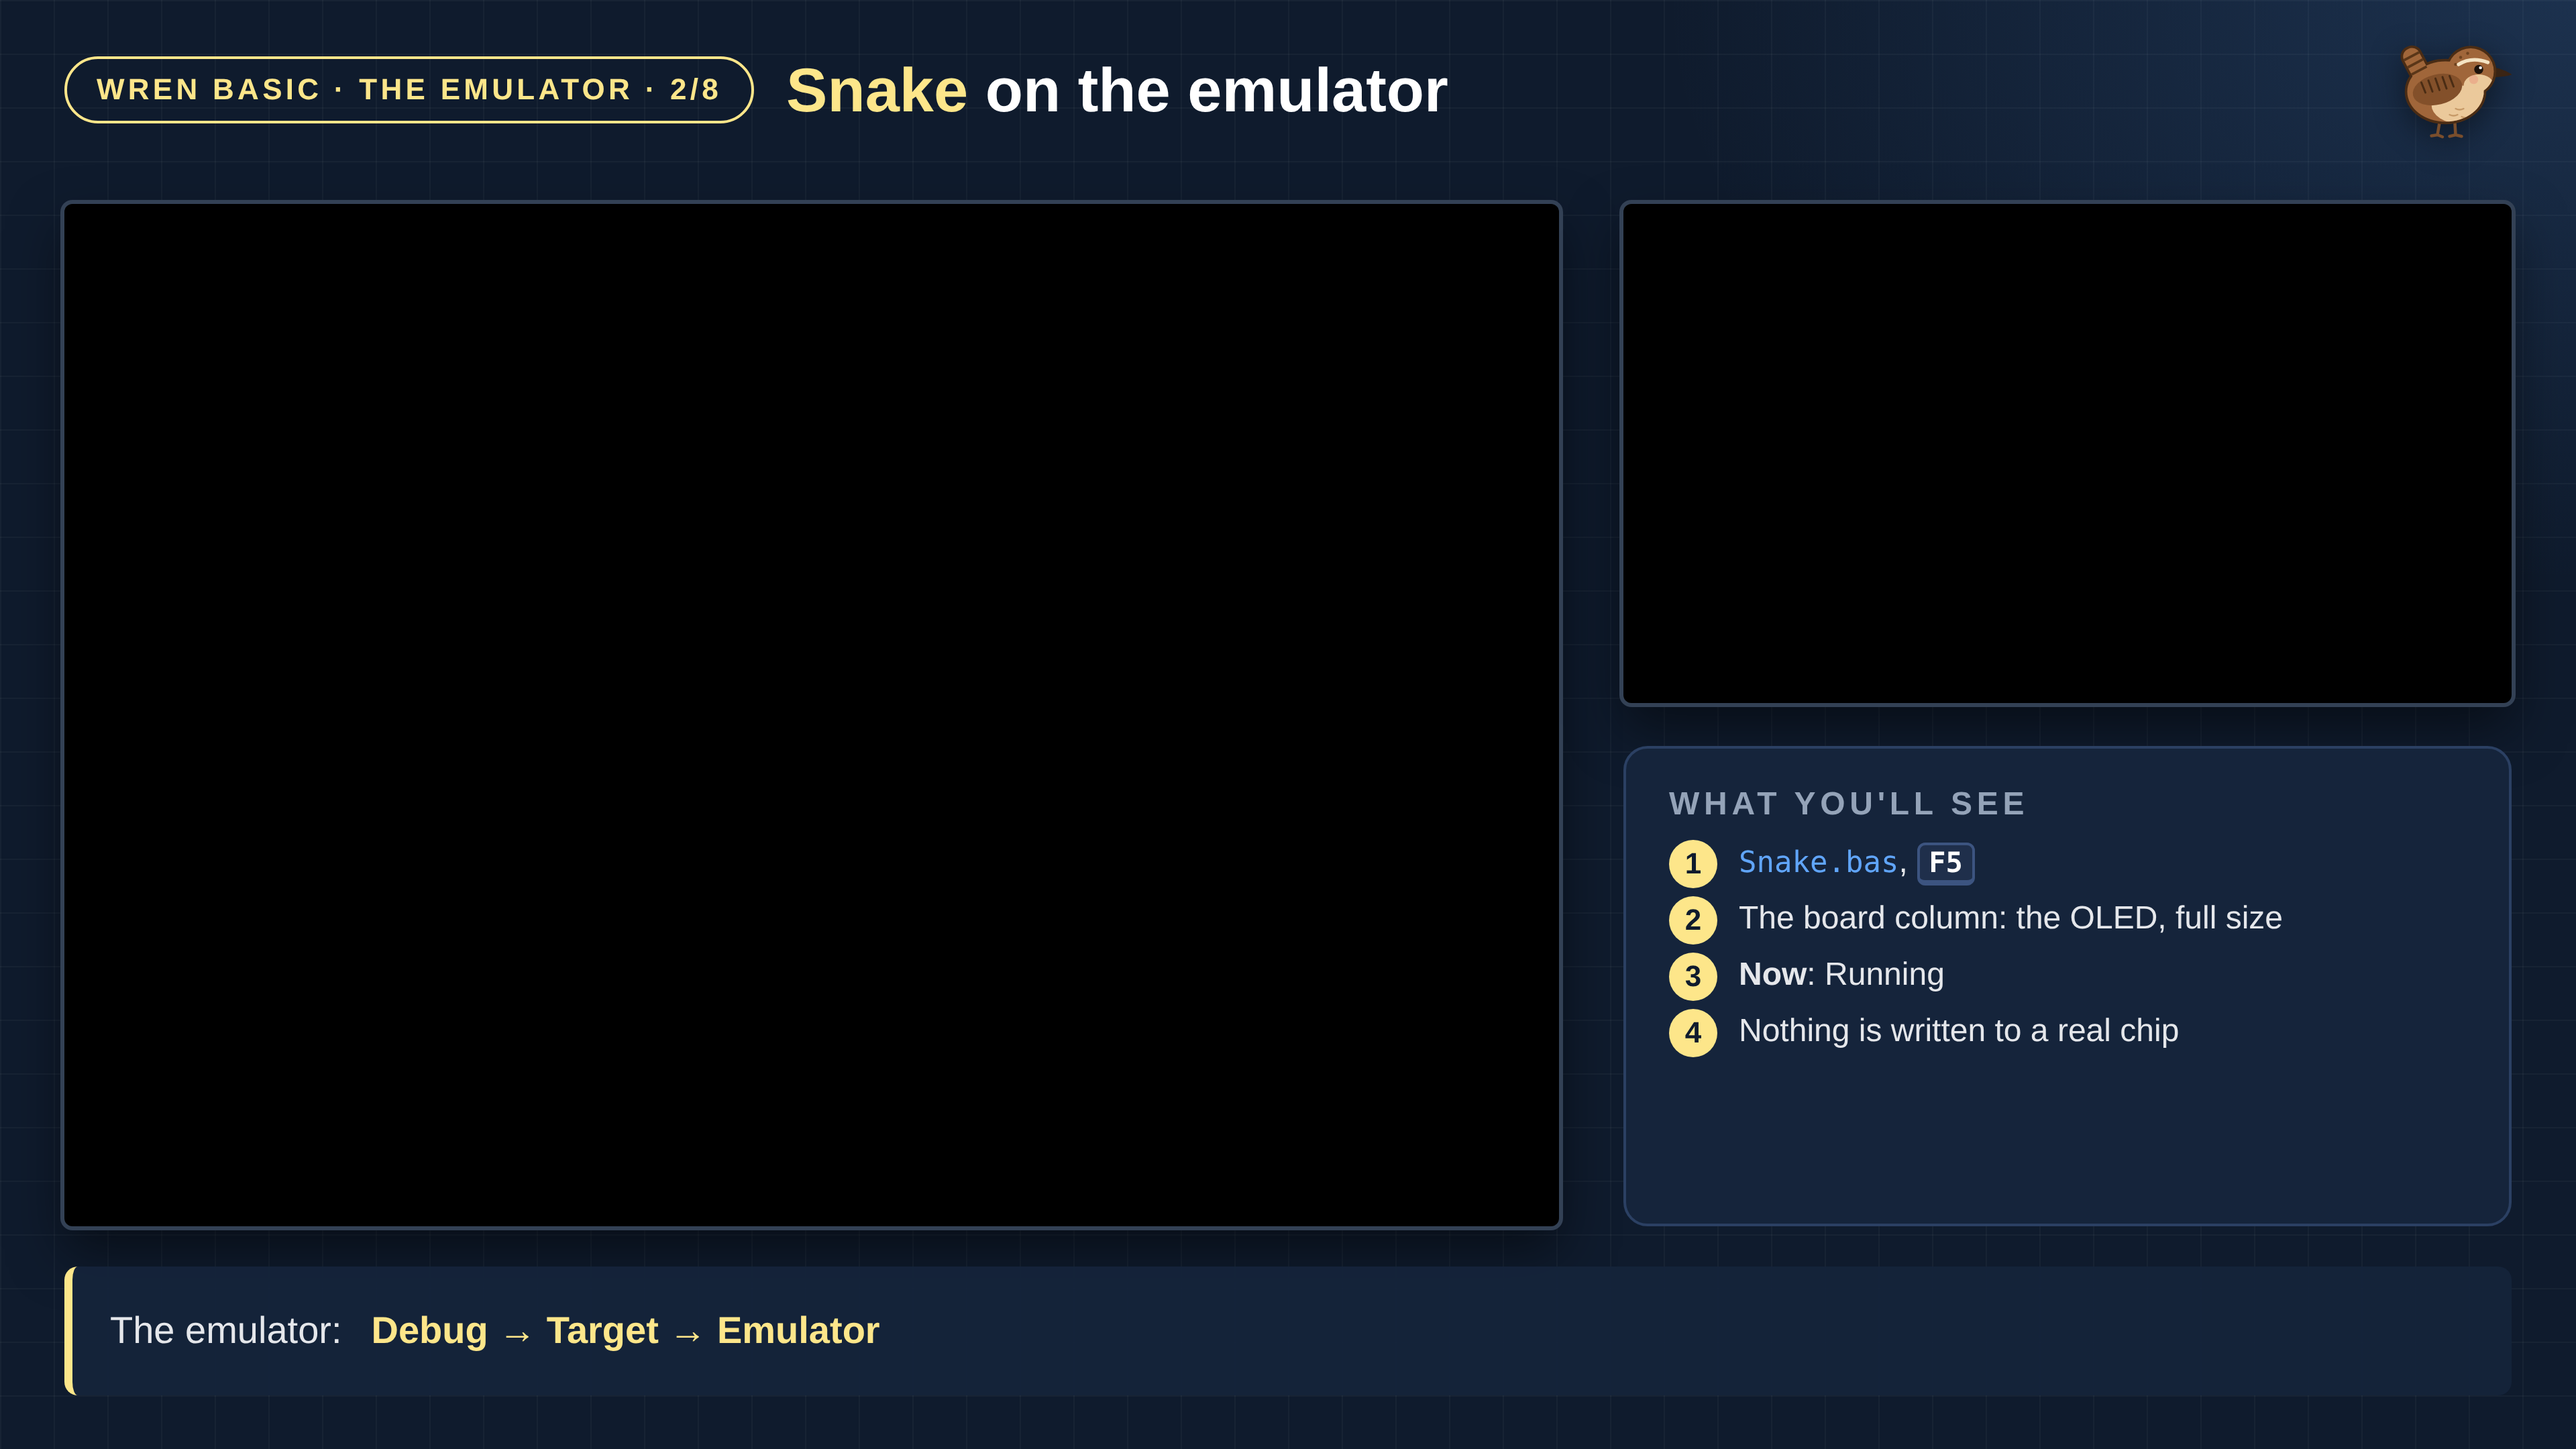
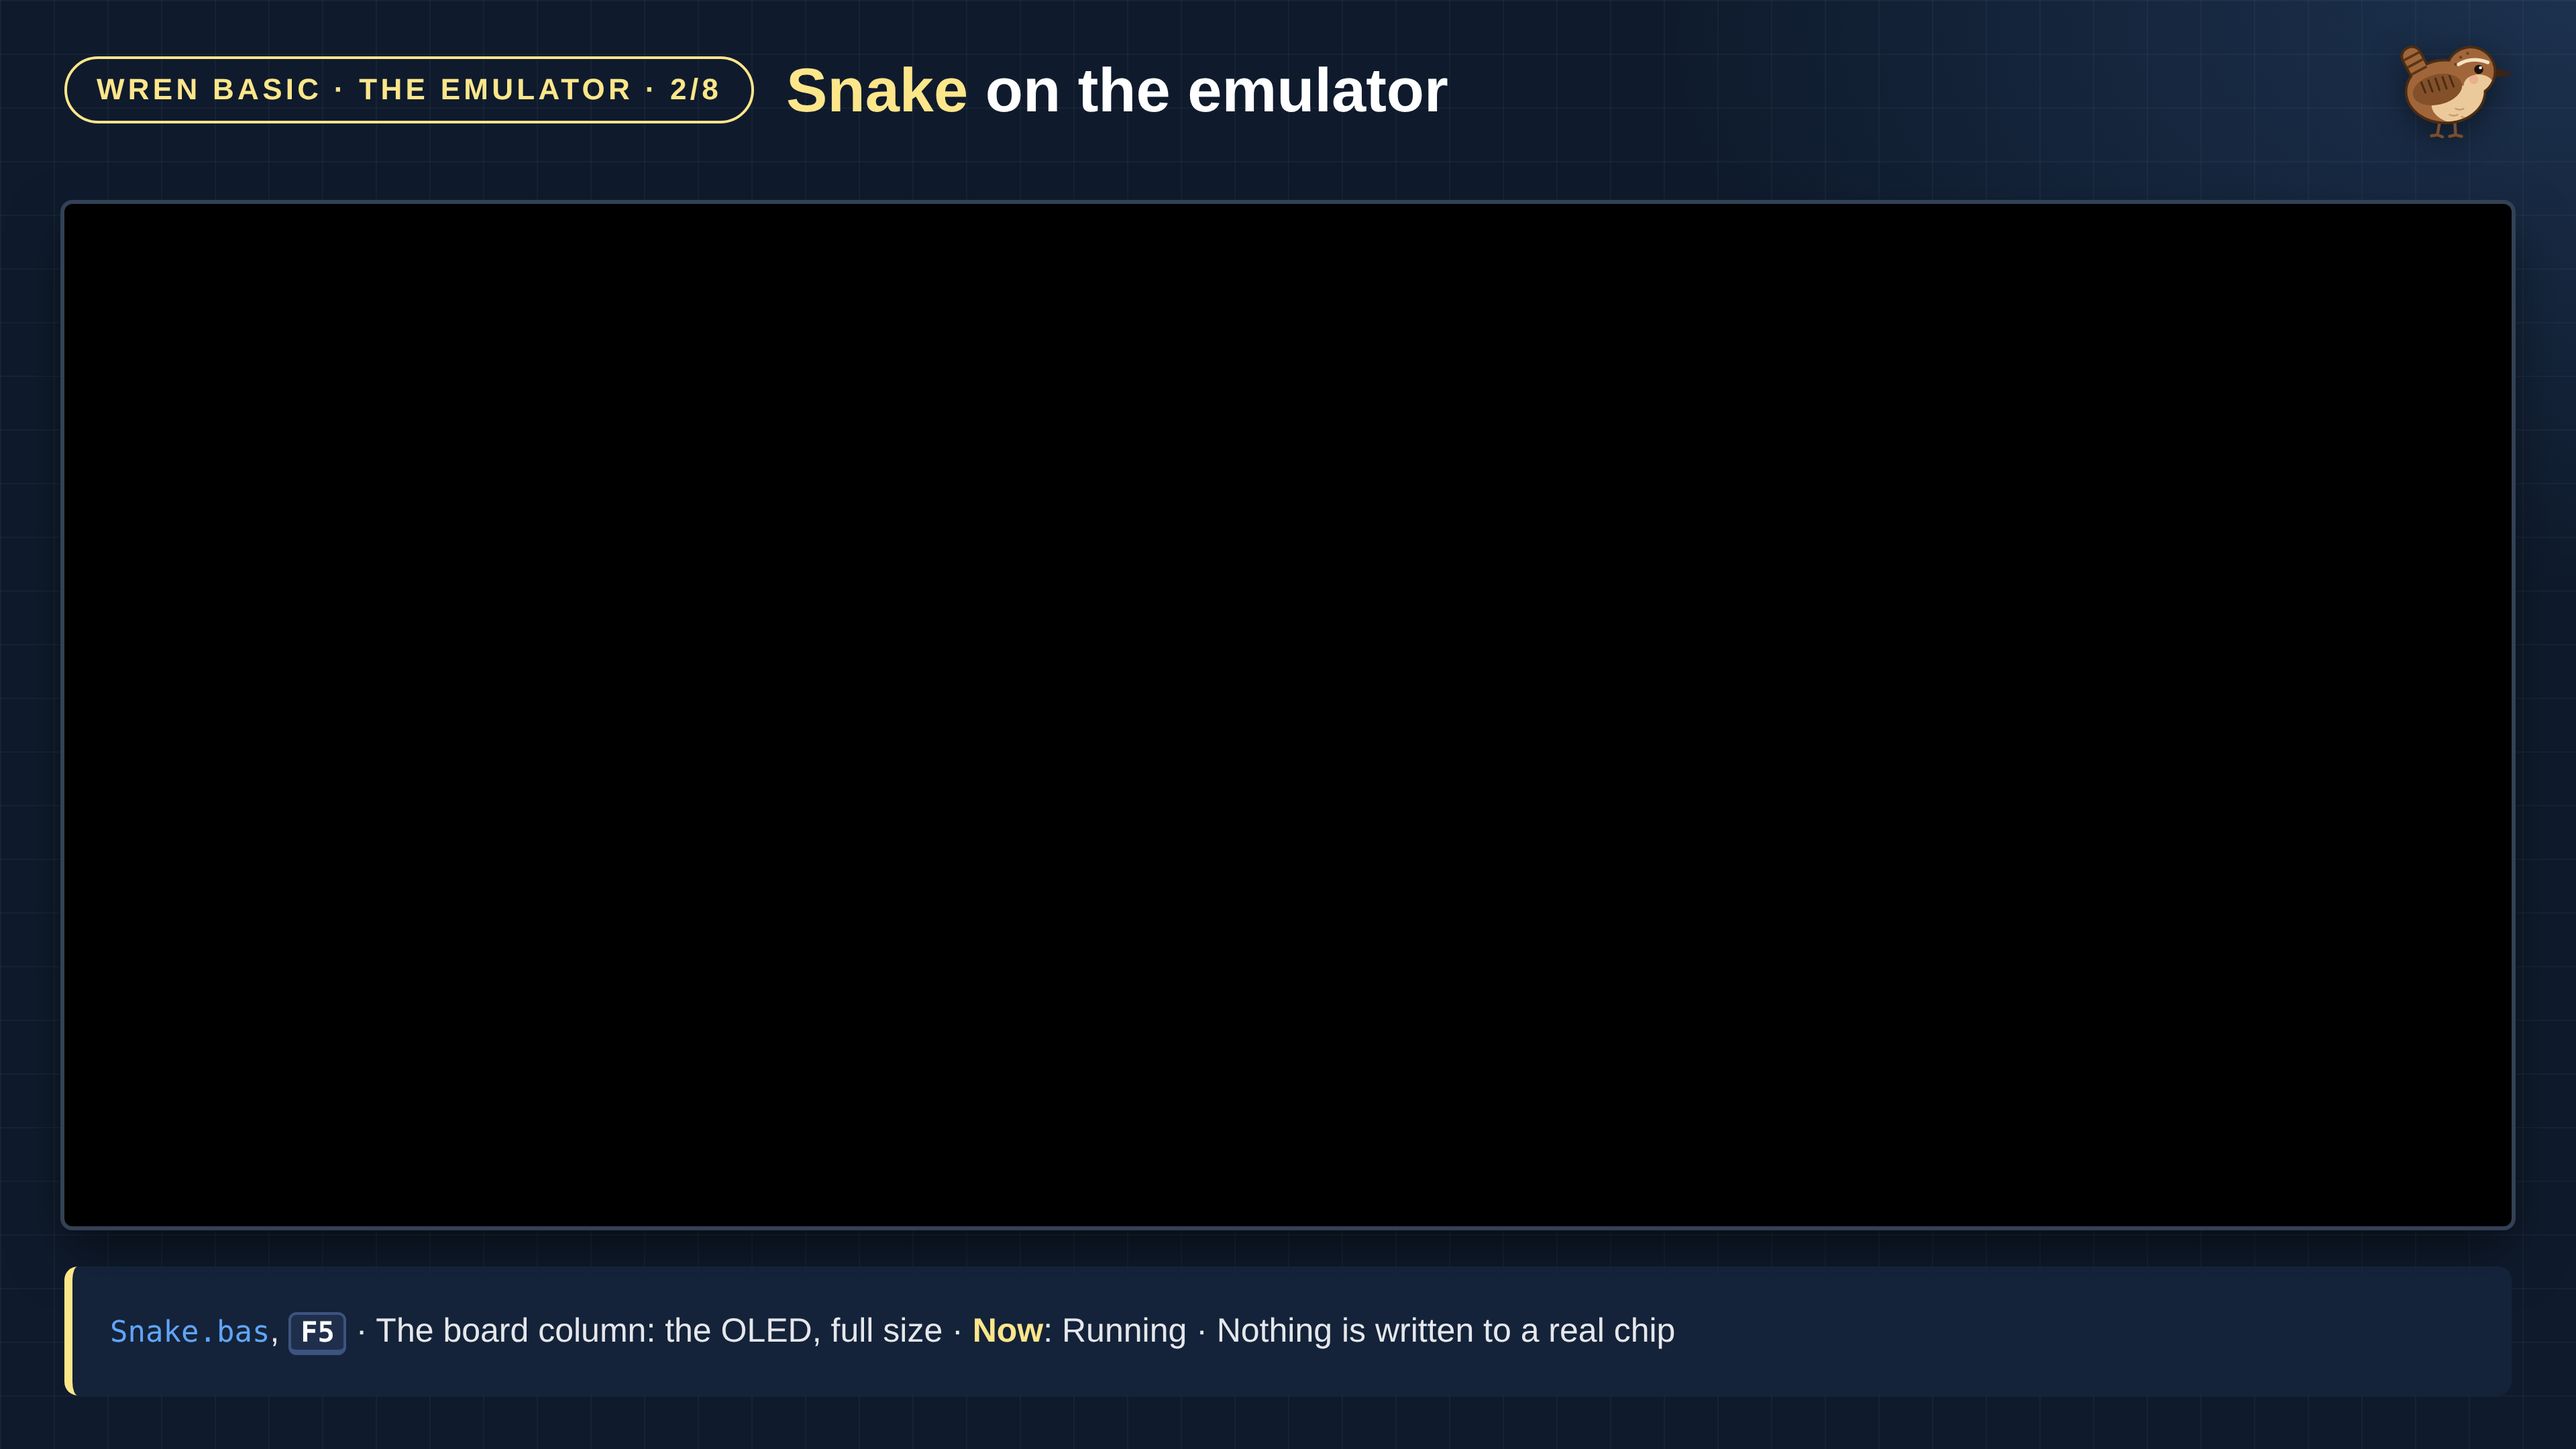
Videos: an emulator-only cut-away has one full-width console frame and no camera (video 4's three; the guide says so)
Claude-Session: https://claude.ai/code/session_01PM169opcHumrd8MpGp9RPP

Changed region(s): [[0.5938, 0.1241, 1.0, 0.8685], [0.0312, 0.8995, 0.6562, 0.9306]]

diff --git a/docs/Videos/Infographics/Wren_04/Wren_04_03b_InsideMove.html b/docs/Videos/Infographics/Wren_04/Wren_04_03b_InsideMove.html
@@ -20,8 +20,8 @@
     - The scene: docs/Videos/Wren_04_Emulator.md. "In Move, 1 call deep": the Now panel's own
       wording (src/Wren/MainWindow.axaml.cs, NowDescription). Stopped on line 64, F11 goes into
       Taken at line 114 (2 calls deep); two F10s later c = 184, cell (29, 5).
-  A backdrop for OBS: the console frame (48, 152; up to 1114 x 762) and the camera frame
-  (1210, 152; 662 x 372) are black inside; every backdrop keeps them in place.
+  A backdrop for OBS, for a scene on the emulator alone: one console frame the full width
+  (48, 152; 1824 x 762), black inside; no camera frame. What to do is in the strip.
 -->
 <html lang="en">
 <head>
@@ -129,6 +129,8 @@
   code { font-family: "DejaVu Sans Mono", Consolas, monospace; color: var(--basic); font-size: 22px; }
   .strip { position: absolute; left: 48px; right: 48px; top: 944px; height: 96px; display: flex; align-items: center; gap: 22px; padding: 0 28px; background: rgba(21, 36, 59, 0.92); border-left: 6px solid var(--gold); border-radius: 10px; font-size: 28px; }
   .strip b { color: var(--gold); }
+  .frame.wide { left: 48px; top: 152px; width: 1824px; height: 762px; }
+  .strip.steps { font-size: 25px; flex-wrap: wrap; gap: 10px 18px; line-height: 1.3; }
 </style>
 </head>
 <body>
@@ -191,12 +193,8 @@
   <circle cx="189.5" cy="102.5" r="3" fill="#FFFFFF" />
  </g>
 </svg><!--/WREN--></div>
-<div class="frame console"></div>
-<div class="frame camera"></div>
-<div class="card see"><h2>WHAT YOU'LL SEE</h2><ol>
-<li>A breakpoint on line 68: <code>IF s &lt; bestScore</code></li><li><b>Variables</b>: <code>d</code>, <code>nx</code>, <code>ny</code>, <code>s</code>, <code>best</code></li><li><kbd>F5</kbd>: the next way, the next score</li><li>Line 64, <kbd>F11</kbd>: into <code>Taken</code>; <code>c</code>, the cell</li>
-</ol></div>
-<div class="strip"><b>Now</b> says where: <b>In Move, 1 call deep</b></div>
+<div class="frame wide"></div>
+<div class="strip steps"><span>A breakpoint on line 68: <code>IF s &lt; bestScore</code> · <b>Variables</b>: <code>d</code>, <code>nx</code>, <code>ny</code>, <code>s</code>, <code>best</code> · <kbd>F5</kbd>: the next way, the next score · Line 64, <kbd>F11</kbd>: into <code>Taken</code>; <code>c</code>, the cell</span></div>
 <!--NAV--><a class="nav prev" href="Wren_04_03_Choose.html" aria-label="Previous slide"></a><a class="nav next" href="Wren_04_04_OneBit.html" aria-label="Next slide"></a><!--/NAV-->
 </body>
 </html>

diff --git a/docs/Videos/Infographics/Wren_04/Wren_04_06b_LastMove.html b/docs/Videos/Infographics/Wren_04/Wren_04_06b_LastMove.html
@@ -12,8 +12,8 @@
   Sources:
     - Snake.bas: programs/OledThing/Snake.bas; 834 bytes in 14 blocks (Wren's compiler).
     - The scene: docs/Videos/Wren_04_Emulator.md.
-  A backdrop for OBS: the console frame (48, 152; up to 1114 x 762) and the camera frame
-  (1210, 152; 662 x 372) are black inside; every backdrop keeps them in place.
+  A backdrop for OBS, for a scene on the emulator alone: one console frame the full width
+  (48, 152; 1824 x 762), black inside; no camera frame. What to do is in the strip.
 -->
 <html lang="en">
 <head>
@@ -121,6 +121,8 @@
   code { font-family: "DejaVu Sans Mono", Consolas, monospace; color: var(--basic); font-size: 22px; }
   .strip { position: absolute; left: 48px; right: 48px; top: 944px; height: 96px; display: flex; align-items: center; gap: 22px; padding: 0 28px; background: rgba(21, 36, 59, 0.92); border-left: 6px solid var(--gold); border-radius: 10px; font-size: 28px; }
   .strip b { color: var(--gold); }
+  .frame.wide { left: 48px; top: 152px; width: 1824px; height: 762px; }
+  .strip.steps { font-size: 25px; flex-wrap: wrap; gap: 10px 18px; line-height: 1.3; }
 </style>
 </head>
 <body>
@@ -183,12 +185,8 @@
   <circle cx="189.5" cy="102.5" r="3" fill="#FFFFFF" />
  </g>
 </svg><!--/WREN--></div>
-<div class="frame console"></div>
-<div class="frame camera"></div>
-<div class="card see"><h2>WHAT YOU'LL SEE</h2><ol>
-<li>A breakpoint on line 76: <code>GameOver</code></li><li><kbd>F5</kbd>, and wait for the trap</li><li>The screen: the trap it built</li><li><kbd>F11</kbd>: into <code>GameOver</code></li>
-</ol></div>
-<div class="strip">The wait is cut in the edit · <b>best = −1</b></div>
+<div class="frame wide"></div>
+<div class="strip steps"><span>A breakpoint on line 76: <code>GameOver</code> · <kbd>F5</kbd>, and wait for the trap · The screen: the trap it built · <kbd>F11</kbd>: into <code>GameOver</code></span></div>
 <!--NAV--><a class="nav prev" href="Wren_04_06_CatchEnd.html" aria-label="Previous slide"></a><a class="nav next" href="Wren_04_07_NoBoard.html" aria-label="Next slide"></a><!--/NAV-->
 </body>
 </html>

diff --git a/docs/Videos/Infographics/Wren_04/Wren_04_02b_Snake.html b/docs/Videos/Infographics/Wren_04/Wren_04_02b_Snake.html
@@ -12,8 +12,8 @@
   Sources:
     - Snake.bas: programs/OledThing/Snake.bas; 834 bytes in 14 blocks (Wren's compiler).
     - The scene: docs/Videos/Wren_04_Emulator.md.
-  A backdrop for OBS: the console frame (48, 152; up to 1114 x 762) and the camera frame
-  (1210, 152; 662 x 372) are black inside; every backdrop keeps them in place.
+  A backdrop for OBS, for a scene on the emulator alone: one console frame the full width
+  (48, 152; 1824 x 762), black inside; no camera frame. What to do is in the strip.
 -->
 <html lang="en">
 <head>
@@ -121,6 +121,8 @@
   code { font-family: "DejaVu Sans Mono", Consolas, monospace; color: var(--basic); font-size: 22px; }
   .strip { position: absolute; left: 48px; right: 48px; top: 944px; height: 96px; display: flex; align-items: center; gap: 22px; padding: 0 28px; background: rgba(21, 36, 59, 0.92); border-left: 6px solid var(--gold); border-radius: 10px; font-size: 28px; }
   .strip b { color: var(--gold); }
+  .frame.wide { left: 48px; top: 152px; width: 1824px; height: 762px; }
+  .strip.steps { font-size: 25px; flex-wrap: wrap; gap: 10px 18px; line-height: 1.3; }
 </style>
 </head>
 <body>
@@ -183,12 +185,8 @@
   <circle cx="189.5" cy="102.5" r="3" fill="#FFFFFF" />
  </g>
 </svg><!--/WREN--></div>
-<div class="frame console"></div>
-<div class="frame camera"></div>
-<div class="card see"><h2>WHAT YOU'LL SEE</h2><ol>
-<li><code>Snake.bas</code>, <kbd>F5</kbd></li><li>The board column: the OLED, full size</li><li><b>Now</b>: Running</li><li>Nothing is written to a real chip</li>
-</ol></div>
-<div class="strip">The emulator: <b>Debug → Target → Emulator</b></div>
+<div class="frame wide"></div>
+<div class="strip steps"><span><code>Snake.bas</code>, <kbd>F5</kbd> · The board column: the OLED, full size · <b>Now</b>: Running · Nothing is written to a real chip</span></div>
 <!--NAV--><a class="nav prev" href="Wren_04_02_Touch.html" aria-label="Previous slide"></a><a class="nav next" href="Wren_04_03_Choose.html" aria-label="Next slide"></a><!--/NAV-->
 </body>
 </html>

diff --git a/docs/How_We_Make_Videos.md b/docs/How_We_Make_Videos.md
@@ -219,6 +219,10 @@ of them with only the image swapped:
 | console | 48, 152 | up to 1114 × 762 |
 | camera | 1210, 152 | 662 × 372, 16:9 |
 
+**A scene on the emulator alone** has no camera: its backdrop has one
+console frame the full width of the slide (48, 152; 1824 × 762), and
+what to do goes in the strip beneath it instead of a card.
+
 The frames are black inside, so a source scaled to fit leaves no
 border. In an animated set a backdrop is a page in the sequence and
 stands still, so its frames are in place the moment it appears.
